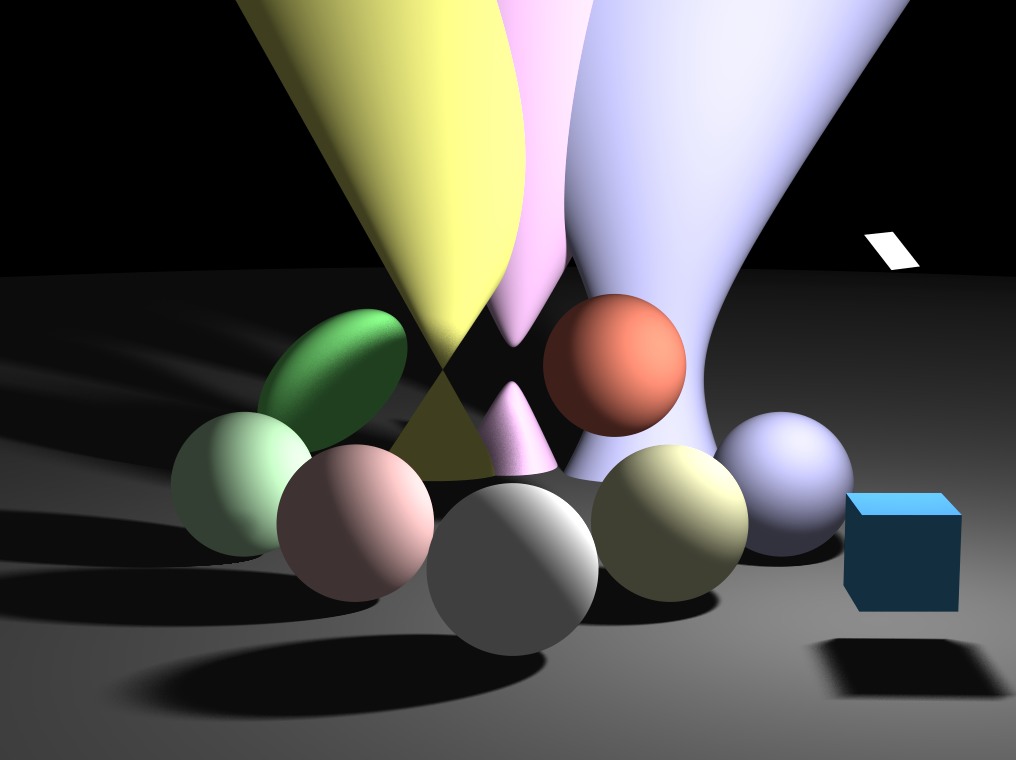
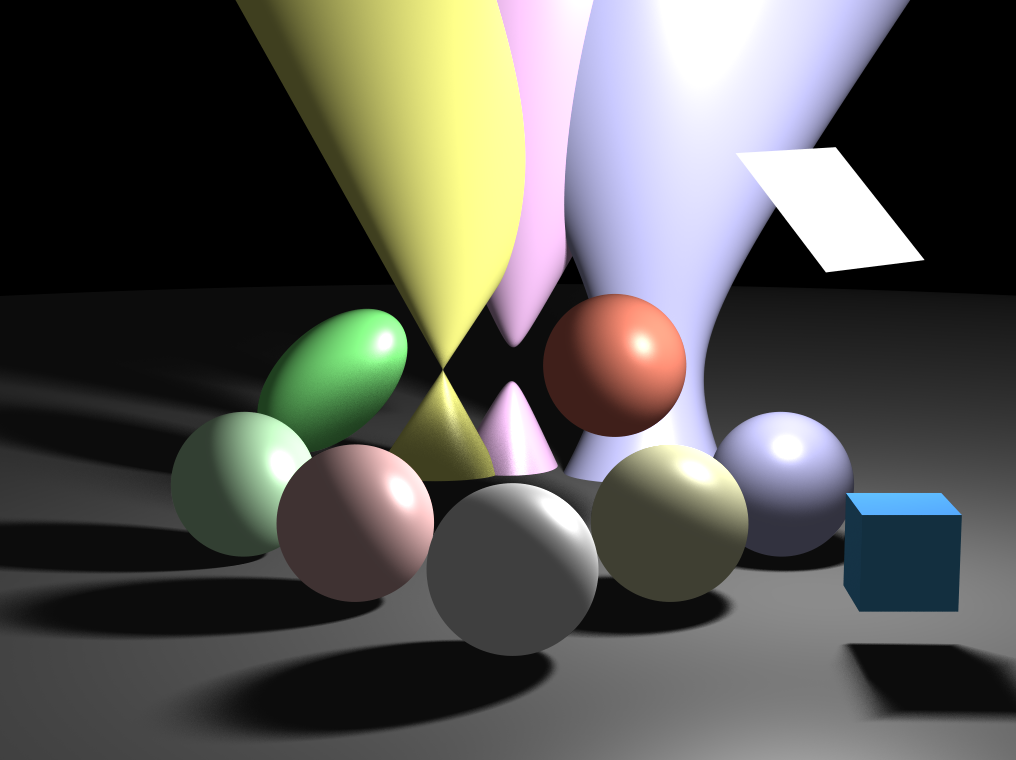
bug fix for sphere light

diff --git a/sourcecode/CUDARayTracer/CUDARayTracer/utils.h b/sourcecode/CUDARayTracer/CUDARayTracer/utils.h
@@ -103,12 +103,13 @@ __host__ __device__ __forceinline__ float3 generateRandomOffsetFromThread(int2 r
 __host__ __device__ __forceinline__ float3 calculateRandomDirectionInSphere(float xi1, float xi2) {
 
 	//crucial difference between this and calculateRandomDirectionInSphere: THIS IS COSINE WEIGHTED!
-	const float TWO_PI = 2.0 * 3.14159265;
-	float up = sqrt(xi1); // cos(theta)
-	float over = sqrt(1 - up * up); // sin(theta)
-	float around = xi2 * TWO_PI;
+	const float TWO_PI = 2.0 * 3.1415926535897932384626433832795;
 
-	return make_float3(up * sinf(around), over * sinf(around), cos(around));
+	float u = xi1*2.0 - 1.0;
+	float uu = sqrt(1.0 - u*u);
+	float theta = xi2 * TWO_PI;
+
+	return make_float3(uu * cos(theta), uu * sin(theta), u);
 }
 
 __host__ __device__ __forceinline__ float3 calculateRandomDirectionInHemisphere_uniform(float3 normal, float xi1, float xi2) {

diff --git a/sourcecode/CUDARayTracer/CUDARayTracer/definitions.h b/sourcecode/CUDARayTracer/CUDARayTracer/definitions.h
@@ -407,7 +407,7 @@ struct d_Shape {
 		case Shape::PLANE:
 			{
 				float2 uv = generateRandomOffsetFromThread2(res, time, x, y);
-				return uv.x * axis[1] + uv.y * axis[2] + p + 1e-3 * axis[0];
+				return uv.x * axis[1] * radius[0] + uv.y * axis[2] * radius[1] + p + 1e-3 * axis[0];
 			}
 		default:
 			return p;
